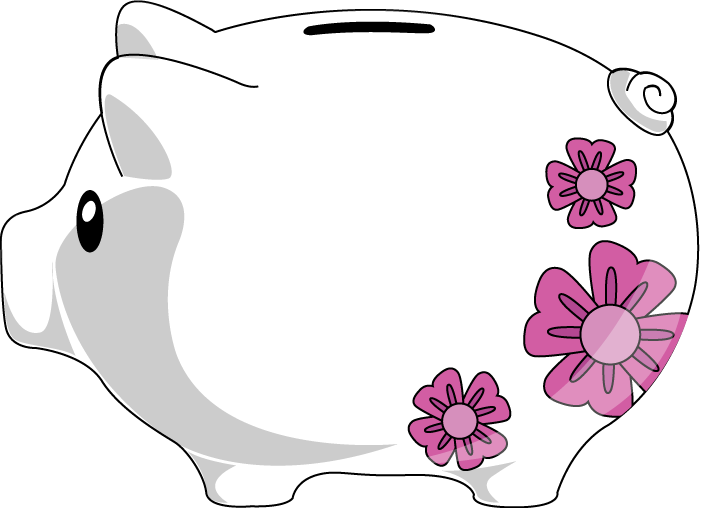
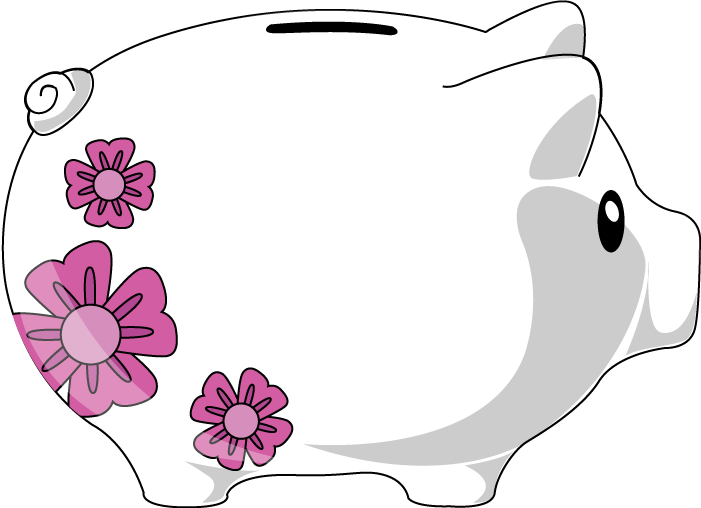
faced piggy banks in other direction

diff --git a/js/scenes/view/piggyBankShapes.js b/js/scenes/view/piggyBankShapes.js
@@ -19,7 +19,6 @@ define( require => {
   // constants
   const NLI_LAYOUT_BOUNDS = ScreenView.DEFAULT_LAYOUT_BOUNDS;
 
-  // the SVG string as exported from the original art file
   const PIGGY_BANK_SVG_STRING =
     'M471.262,415.361c-3,15.5-13.5,47-41.5,66c0,0-16,7.5-24.5,32.5\n' +
     '\tc0,0,2.5,7-20.5,7s-19.5-6-19.5-6s-2-10.5-32-9.5c-27.503,0.916-33-3-43.5,0s-11.5,11-11.5,11s-2,4.5-20,4c0,0-20.5,2-21.5-6.5\n' +
@@ -31,7 +30,11 @@ define( require => {
     '\tc1.419,4.26,0.534,7.22-1.983,9.94C476.816,371.247,473.151,405.6,471.262,415.361z';
 
   // unscaled version of the piggy bank shape
-  const FULL_SIZE_PIGGY_BANK_SHAPE = new Shape( PIGGY_BANK_SVG_STRING );
+  // NOTE: In late August 2019 we decided to reverse the orientation of the piggy banks to point to the right instead of
+  // the left.  However, flipping the image in the AI file and then saving it as SVG didn't seem to work - it kept
+  // throwing exceptions upon loading, so I (jbphet) worked around this by loading the left-facing version and flipping
+  // it.  Hence the transformation on the next line.
+  const FULL_SIZE_PIGGY_BANK_SHAPE = new Shape( PIGGY_BANK_SVG_STRING ).transformed( Matrix3.scale( -1, 1 ) );
 
   class PiggyBankShapes {
 
